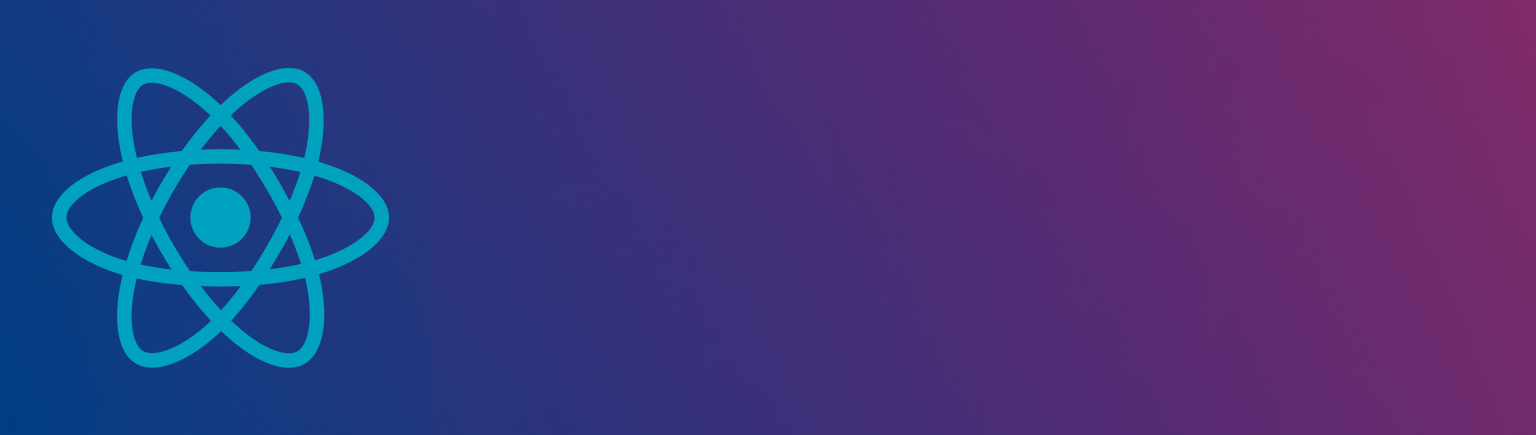
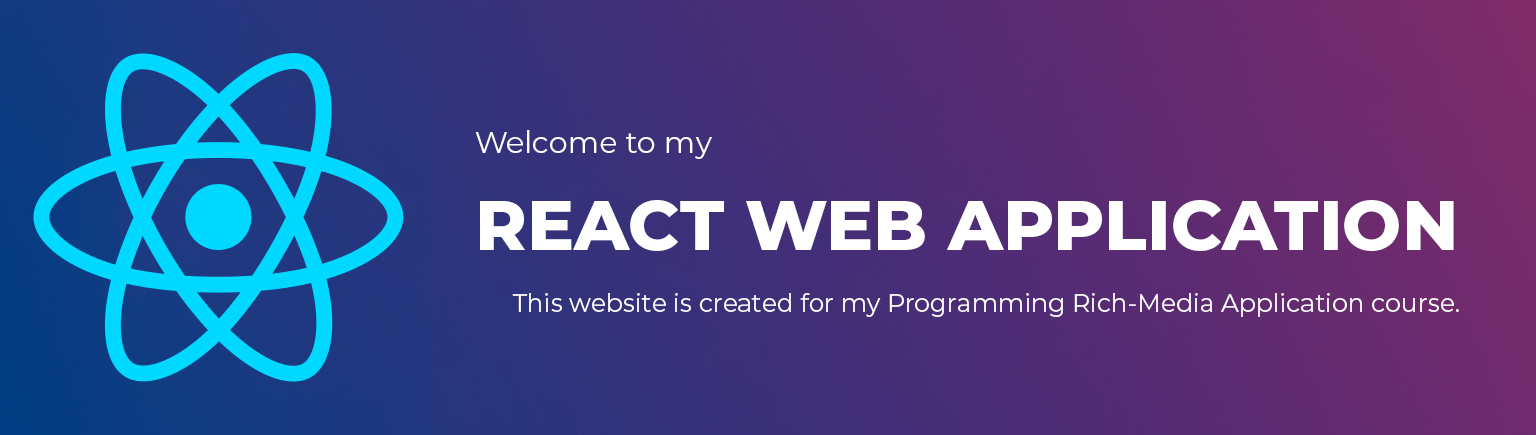
updated files

diff --git a/src/App.jsx b/src/App.jsx
@@ -1,7 +1,6 @@
 import { Route, Routes } from "react-router-dom";
 import "./App.css";
-import Candies from "./Candies.jsx";
-import CandyCard from "./components/CandyCard.jsx";
+import CandyCard from "./components/Concession.jsx";
 import CandyList from "./components/CandyList.jsx";
 import Footer from "./components/Footer.jsx";
 import Navbar from "./components/Navbar.jsx";
@@ -10,23 +9,16 @@ import PopularList from "./components/PopularList.jsx";
 import MovieCard from "./components/MovieCard.jsx";
 import NowPlaying from "./components/NowPlaying.jsx";
 
+import headerImage from "./assets/react_header.png";
 function App() {
   const name = "React Web Application";
 
   return (
     <>
       <header>
-        <div class="container">
+        <div class="container-fluid">
           <div class="row">
-            <div class="col-sm-3">
-              </div>
-            <div class="col-sm-8">
-              <h1>Welcome to my <br></br>{name}</h1>
-              <p>
-                This website is created for my Programming Rich-Media
-                Application course.
-              </p>
-            </div>
+              <img src={headerImage} alt="header"/>
           </div>
         </div>
       </header>

diff --git a/src/components/Concession.css b/src/components/Concession.css
@@ -1,6 +1,6 @@
 /*google font*/
 @import url("https://fonts.googleapis.com/css2?family=Raleway:ital,wght@0,100..900;1,100..900&display=swap");
-@import url('https://fonts.googleapis.com/css2?family=Montserrat:ital,wght@0,100..900;1,100..900&display=swap');
+
 @import url("https://fonts.googleapis.com/css2?family=Momo+Signature&family=Raleway:ital,wght@0,100..900;1,100..900&display=swap");
 
 .card img {
@@ -17,9 +17,9 @@
   margin-bottom: 25px;
   /* height: 350%; */
   border-radius: 10px;
-  box-shadow: #0560af 0px 0px 20px 0px;
+  box-shadow: #d3b47a 0px 0px 20px 0px;
   border: 2px solid #4d4da1;
-  background-image: linear-gradient(43deg, #4158D0 0%, #C850C0 46%, #FFCC70 100%);
+  background-image: linear-gradient(43deg, #4158D0 0%, #894e85 46%);
 }
 
 .card:hover {

diff --git a/src/App.css b/src/App.css
@@ -1,22 +1,11 @@
 header {
-  
-  background-image: url('assets/react_header.png') ;
   background-position: left;
   background-repeat: no-repeat;
-  height: 360px;
+  box-sizing: border-box;
 }
 
-header h1 {
-  font-family: "Montserrat", sans-serif;
-  font-weight: bolder;
-  font-size: 50px;
-  text-align: center;
-  padding: 70px 0px 0px  0px;
-
-}
-
-header p {
-  text-align: center;
-  padding-top: 0px
-
+header img {
+  width: 100%;
+  vertical-align: middle;
+  border-style: none;
 }

diff --git a/src/components/MovieCard.css b/src/components/MovieCard.css
@@ -7,13 +7,16 @@
 }
 
 .movie-card {
-  background-color: #8686AC;
+  /* background-color: #8686AC; */
   width: 250px;
   color: black;
   transition: all 0.25s ease-in-out;
   margin-bottom: 25px;
   /* height: 350%; */
-  border-radius: 10px;
+   border-radius: 50px;
+   background: #57359a;
+   box-shadow: 20px 20px 60px #bebebe,
+                 -20px -20px 60px #ffffff;
 }
 
 .movie-card:hover {

diff --git a/src/components/Concession.jsx b/src/components/Concession.jsx
@@ -1,7 +1,7 @@
 import React from 'react'
-import './CandyCard.css'
+import './Concession.css'
 
-const CandyCard = ({candy}) => {
+const Concession = ({candy}) => {
   return (
     <div className="card">
        <img src={candy.canImage} alt="Candy" /> 
@@ -11,4 +11,4 @@ const CandyCard = ({candy}) => {
   )
 }
 
-export default CandyCard
+export default Concession

diff --git a/src/components/CandyList.jsx b/src/components/CandyList.jsx
@@ -1,6 +1,6 @@
 import React from 'react';
 import './CandyList.css';
-import CandyCard from './CandyCard';
+import CandyCard from './Concession';
 
 // import our assets
 import aeroImage from "../assets/aero.jpg";
